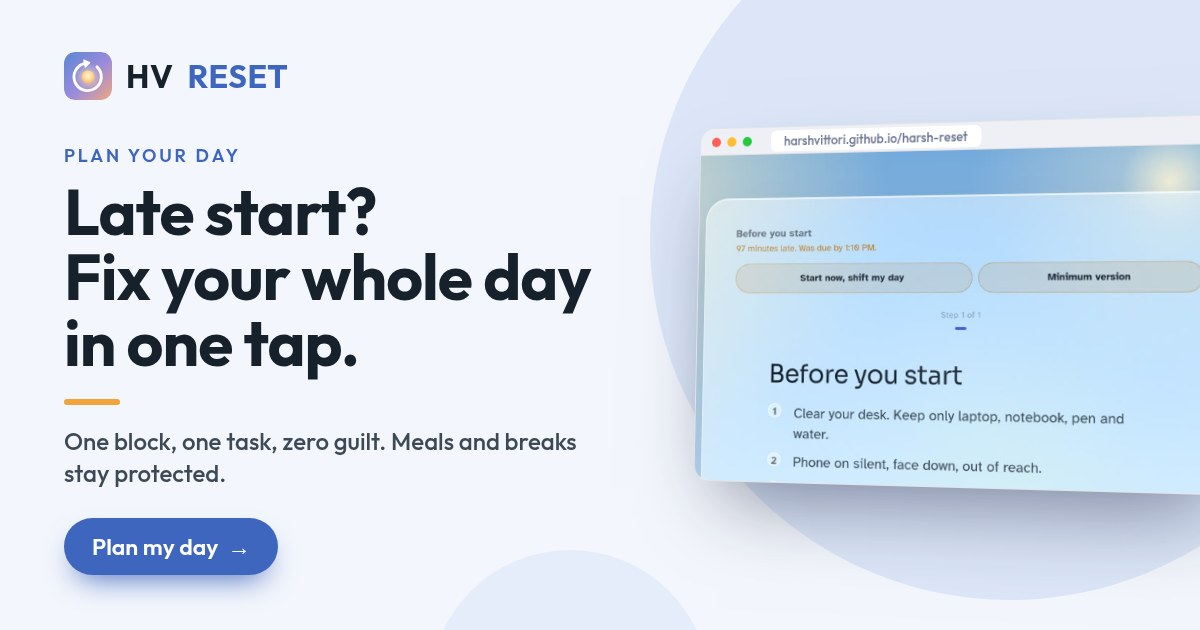
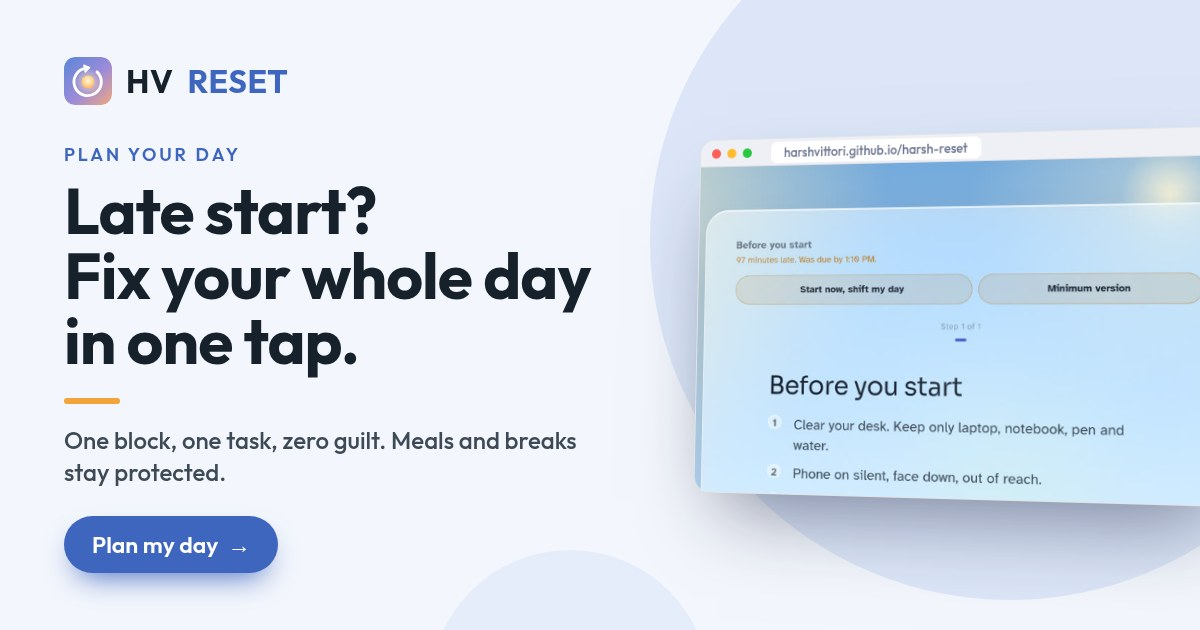
Balance the spacing on every link preview card
Text and app screens are now centred vertically, so the gap above the
logo equals the gap below the button on all five cards.

Claude-Session: https://claude.ai/code/session_01Vu6r8mcg3NGaLLefhwPnrg

diff --git a/src/og-cards.html b/src/og-cards.html
@@ -3,10 +3,10 @@
 .card{position:relative;width:1200px;height:630px;overflow:hidden;font-family:Outfit,sans-serif;color:#16212B;background:var(--tint);margin-bottom:20px}
 .c1{position:absolute;width:720px;height:720px;border-radius:50%;background:var(--circle);right:-170px;top:-120px}
 .c2{position:absolute;width:280px;height:280px;border-radius:50%;background:var(--circle);opacity:.6;left:430px;bottom:-200px}
-.left{position:absolute;left:64px;top:52px;width:560px;z-index:5}
+.left{position:absolute;left:64px;top:0;bottom:0;width:560px;z-index:5;display:flex;flex-direction:column;justify-content:center;align-items:flex-start}
 .brand{display:flex;align-items:center;gap:14px;font-weight:700;font-size:32px;letter-spacing:.02em}
 .brand svg{box-shadow:none!important}.brand b{color:var(--accent);font-weight:700}
-.eye{margin-top:44px;font-weight:600;font-size:18px;letter-spacing:.16em;text-transform:uppercase;color:var(--accent)}
+.eye{margin-top:38px;font-weight:600;font-size:18px;letter-spacing:.16em;text-transform:uppercase;color:var(--accent)}
 h1{margin-top:12px;font-weight:700;font-size:64px;line-height:1.02;letter-spacing:-.015em}
 .rule{width:56px;height:6px;border-radius:4px;background:#F2A33A;margin:24px 0 20px}
 .sub{font-weight:500;font-size:24px;line-height:1.35;color:#3D4A55;max-width:540px}
@@ -16,7 +16,7 @@ h1{margin-top:12px;font-weight:700;font-size:64px;line-height:1.02;letter-spacin
 .bar i{width:10px;height:10px;border-radius:50%;background:#FF5F57}.bar i:nth-child(2){background:#FEBC2E}.bar i:nth-child(3){background:#28C840}
 .bar span{margin-left:14px;font-size:13px;color:#6B7390;background:#fff;padding:3px 14px;border-radius:6px;white-space:nowrap;overflow:hidden}
 .scr{background-repeat:no-repeat}
-.fan{position:absolute;left:600px;top:40px;width:640px;height:560px}
-.riya{position:absolute;right:48px;top:96px;width:520px;transform:rotate(2deg);border-radius:26px;overflow:hidden;box-shadow:0 40px 80px -30px rgba(20,30,60,.55)}
+.fan{position:absolute;left:600px;top:50%;transform:translateY(-50%);width:640px;height:560px}
+.riya{position:absolute;right:48px;top:50%;width:520px;transform:translateY(-50%) rotate(2deg);border-radius:26px;overflow:hidden;box-shadow:0 40px 80px -30px rgba(20,30,60,.55)}
 .riya svg{display:block;width:100%;height:auto}
-</style></head><body><div class="card" data-out="og.jpg" style="--accent:#2E43A6;--dark:#233489;--tint:#F4F5FB;--circle:#E2E7F8"><div class="c1"></div><div class="c2"></div><div class="left"><div class="brand"><svg style="width:48px;height:48px;border-radius:11px;transform:rotate(0deg);flex:none;" xmlns="http://www.w3.org/2000/svg" viewBox="0 0 48 48"><defs><linearGradient id="hvw-og1" x1="0" y1="0" x2="1" y2="1"><stop offset="0" stop-color="#1C2A6B"/><stop offset=".6" stop-color="#4A46C9"/><stop offset="1" stop-color="#7C5CE0"/></linearGradient><radialGradient id="hvwc-og1" cx=".4" cy=".35" r=".7"><stop offset="0" stop-color="#FFFFFF"/><stop offset="1" stop-color="#C9D3FF"/></radialGradient></defs><rect width="48" height="48" rx="12" fill="url(#hvw-og1)"/><ellipse cx="24" cy="24" rx="16.5" ry="7.5" fill="none" stroke="#fff" stroke-opacity=".55" stroke-width="1.8" transform="rotate(-24 24 24)"/><circle cx="24" cy="24" r="6.2" fill="url(#hvwc-og1)"/><circle cx="37.6" cy="17.9" r="3.3" fill="#F2C063"/><circle cx="10.4" cy="30.1" r="3.3" fill="#34C77B"/><circle cx="17.4" cy="14.6" r="2.6" fill="#F2A77E"/></svg>HV <b>WORLD</b></div><p class="eye">3 free apps · by Harsh Vittori</p><h1>Stop guessing.<br>Start growing.</h1><div class="rule"></div><p class="sub">Know your strengths. Run a calm day.<br>Never miss a follow-up.</p><div class="cta">▶&nbsp; Watch the 45s film</div></div><div class="fan"><div class="win" style="width:330px;left:0;top:150px;transform:rotate(-8deg)"><div class="bar"><i></i><i></i><i></i><span>hv-tests</span></div><div class="scr" style="height:216px;background-image:url(og-assets/t-result.jpg);background-size:678.9px auto;background-position:-179.1px -18.9px"></div></div><div class="win" style="width:360px;left:170px;top:40px;transform:rotate(3deg);z-index:2"><div class="bar"><i></i><i></i><i></i><span>harsh-reset</span></div><div class="scr" style="height:230px;background-image:url(og-assets/r-intro-0.jpg);background-size:518.4px auto;background-position:-79.2px -21.6px"></div></div><div class="win" style="width:380px;left:250px;top:250px;transform:rotate(-2deg);z-index:3"><div class="bar"><i></i><i></i><i></i><span>hv-vault-web</span></div><div class="scr" style="height:237px;background-image:url(og-assets/v-dash-a.jpg);background-size:380.0px auto;background-position:-0.0px -0.0px"></div></div></div></div><div class="card" data-out="story/og.jpg" style="--accent:#2E43A6;--dark:#233489;--tint:#F4F5FB;--circle:#E2E7F8"><div class="c1"></div><div class="c2"></div><div class="left"><div class="brand"><svg style="width:48px;height:48px;border-radius:11px;transform:rotate(0deg);flex:none;" xmlns="http://www.w3.org/2000/svg" viewBox="0 0 48 48"><rect width="48" height="48" rx="12" fill="#2E43A6"/><rect x="7.5" y="16.5" width="21" height="15" rx="7.5" fill="none" stroke="#FFFFFF" stroke-width="3.4"/><rect x="19.5" y="16.5" width="21" height="15" rx="7.5" fill="none" stroke="#F4B942" stroke-width="3.4"/><path d="M21.2 16.5h3.3a7.5 7.5 0 0 1 4 1.2" fill="none" stroke="#FFFFFF" stroke-width="3.4" stroke-linecap="round"/></svg>HV <b>WORLD</b></div><p class="eye">A 1-minute illustrated story</p><h1>Hard work. Zero progress. Sound familiar?</h1><div class="rule"></div><p class="sub">Meet Riya. A 1-minute story about the 3 things quietly holding her back.</p><div class="cta">Read her story &nbsp;→</div></div><div class="riya"><svg class="art" viewBox="0 0 600 460" role="img" aria-label="Riya at her desk late at night, worried about three things: who she is, where her day goes, and follow-ups"><rect width="600" height="460" rx="28" fill="#F2F3F8"/><rect x="64" y="56" width="140" height="104" rx="14" fill="#1F2A55"/><circle cx="176" cy="82" r="14" fill="#F6E7B8"/><circle cx="182" cy="78" r="12" fill="#1F2A55"/><circle class="twinkle" style="animation-delay:0.0s" cx="92" cy="84" r="2.2" fill="#FFFFFF"/><circle class="twinkle" style="animation-delay:0.7s" cx="150" cy="72" r="2.2" fill="#FFFFFF"/><circle class="twinkle" style="animation-delay:1.3s" cx="120" cy="118" r="2.2" fill="#FFFFFF"/><circle class="twinkle" style="animation-delay:2.0s" cx="176" cy="104" r="2.2" fill="#FFFFFF"/><rect x="0" y="416" width="600" height="44" fill="#EEF0F4"/><rect x="0" y="414" width="600" height="3" fill="#E1E4EA"/><g class="" transform="translate(270 330) scale(1)"><path d="M-40,-118 C-48,-166 48,-166 40,-118 L44,-64 C30,-52 -30,-52 -44,-64Z" fill="#2A2238"/><rect x="-9" y="-64" width="18" height="22" rx="7" fill="#F0C29E"/><path d="M-60,26 C-60,-26 -42,-46 0,-46 C42,-46 60,-26 60,26 Z" fill="#5B6FE0"/><path d="M-14,-46 L0,-30 L14,-46" fill="none" stroke="#FFFFFF" stroke-opacity=".55" stroke-width="3" stroke-linecap="round"/><circle cx="-34" cy="-92" r="6" fill="#F0C29E"/><circle cx="34" cy="-92" r="6" fill="#F0C29E"/><circle cx="0" cy="-94" r="35" fill="#F0C29E"/><path d="M-36,-98 C-34,-138 34,-142 37,-100 C26,-118 -8,-122 -36,-98Z" fill="#2A2238"/><g class=""><path d="M-18,-92 L-7,-92 M7,-92 L18,-92" stroke="#1D1D1F" stroke-width="3" stroke-linecap="round"/><path d="M-19,-102 L-7,-104 M19,-102 L7,-104" stroke="#1D1D1F" stroke-width="3" stroke-linecap="round"/><path d="M-7,-75 L7,-75" stroke="#1D1D1F" stroke-width="3" stroke-linecap="round"/></g><g class=""><path d="M-50,-26 C-62,-6 -52,14 -30,20" fill="none" stroke="#5B6FE0" stroke-width="17" stroke-linecap="round"/><circle cx="-26" cy="20" r="8.5" fill="#F0C29E"/><path d="M50,-26 C62,-6 52,14 30,20" fill="none" stroke="#5B6FE0" stroke-width="17" stroke-linecap="round"/><circle cx="26" cy="20" r="8.5" fill="#F0C29E"/></g></g><rect x="120" y="322" width="380" height="16" rx="6" fill="#D8C2A2"/><rect x="138" y="336" width="12" height="86" rx="4" fill="#C5AD8B"/><rect x="470" y="336" width="12" height="86" rx="4" fill="#C5AD8B"/><rect x="150" y="318" width="70" height="8" rx="3" fill="#FFFFFF" transform="rotate(-3 185 318)"/><rect x="152" y="309" width="70" height="8" rx="3" fill="#F2F2F5" transform="rotate(2 185 309)"/><rect x="154" y="300" width="70" height="8" rx="3" fill="#FFFFFF" transform="rotate(-1 185 300)"/><rect x="156" y="291" width="70" height="8" rx="3" fill="#ECEEF3" transform="rotate(4 185 291)"/><rect x="158" y="282" width="70" height="8" rx="3" fill="#FFFFFF" transform="rotate(0 185 282)"/><g><path d="M338,322 h118 l-10,-6 h-98Z" fill="#9AA0AE"/><rect x="350" y="248" width="94" height="66" rx="7" fill="#2B3350"/><rect class="glowlap" x="356" y="254" width="82" height="54" rx="3" fill="#8FA6FF" opacity=".55"/></g><g><rect x="468" y="298" width="22" height="24" rx="5" fill="#FFFFFF" stroke="#D2D2D7" stroke-width="2"/><path class="steam" d="M479,292 q-4,-6 0,-12 q4,-6 0,-12" fill="none" stroke="#C7C7CC" stroke-width="2.5" stroke-linecap="round"/></g><g class=""><circle cx="318" cy="184" r="6" fill="#FFFFFF" stroke="#D2D2D7" stroke-width="1.5"/><circle cx="351" cy="161" r="10" fill="#FFFFFF" stroke="#D2D2D7" stroke-width="1.5"/><rect x="376" y="70" width="176" height="68" rx="34" fill="#FFFFFF" stroke="#D2D2D7" stroke-width="1.5"/><g class="pop" style="animation-delay:0s"><circle cx="404" cy="104" r="22" fill="#E3F2EA"/><text x="404" y="113" text-anchor="middle" font-size="24" font-weight="700" fill="#127A4F">?</text></g><g class="pop" style="animation-delay:.6s"><circle cx="464" cy="104" r="22" fill="#E6EDF9"/><circle cx="464" cy="104" r="11" fill="none" stroke="#4A72C8" stroke-width="3"/><path d="M464,97 v7 l5,4" stroke="#4A72C8" stroke-width="3" fill="none" stroke-linecap="round"/></g><g class="pop" style="animation-delay:1.2s"><circle cx="524" cy="104" r="22" fill="#F6EEDC"/><path d="M514,110 c0,-14 4,-19 10,-19 s10,5 10,19Z" fill="none" stroke="#A87A22" stroke-width="3" stroke-linejoin="round"/><circle cx="524" cy="114" r="2.5" fill="#A87A22"/></g></g></svg></div></div><div class="card" data-out="test/og.jpg" style="--accent:#127A4F;--dark:#0D5E3C;--tint:#F4F8F5;--circle:#DDEFE4"><div class="c1"></div><div class="c2"></div><div class="left"><div class="brand"><svg style="width:48px;height:48px;border-radius:11px;transform:rotate(0deg);flex:none;" xmlns="http://www.w3.org/2000/svg" viewBox="0 0 48 48"><rect width="48" height="48" rx="12" fill="#127A4F"/><circle cx="16.5" cy="16.5" r="5.5" stroke="#FFFFFF" stroke-width="3" fill="none"/><circle cx="31.5" cy="16.5" r="5.5" stroke="#FFFFFF" stroke-width="3" fill="none"/><circle cx="16.5" cy="31.5" r="5.5" stroke="#FFFFFF" stroke-width="3" fill="none"/><circle cx="31.5" cy="31.5" r="7.5" fill="#FFC54D"/><path d="M28 31.6l2.5 2.5 4.8-5" stroke="#17231C" stroke-width="2.6" fill="none" stroke-linecap="round" stroke-linejoin="round"/></svg>HV <b>TEST</b></div><p class="eye">10 minutes · Free · No login</p><h1>You think you know yourself. Prove it.</h1><div class="rule"></div><p class="sub">Real-life situations. An honest score out of 100, and a 30-day plan to grow.</p><div class="cta">Take the test &nbsp;→</div></div><div class="win" style="width:560px;right:-40px;top:120px;transform:perspective(1400px) rotateY(-12deg) rotateX(3deg)"><div class="bar"><i></i><i></i><i></i><span>harshvittori.github.io/hv-tests</span></div><div class="scr" style="height:368px;background-image:url(og-assets/t-result.jpg);background-size:1152.0px auto;background-position:-304.0px -32.0px"></div></div></div><div class="card" data-out="reset/og.jpg" style="--accent:#3F66BE;--dark:#2C4E99;--tint:#F3F6FC;--circle:#DCE6F8"><div class="c1"></div><div class="c2"></div><div class="left"><div class="brand"><svg style="width:48px;height:48px;border-radius:11px;transform:rotate(0deg);flex:none;" xmlns="http://www.w3.org/2000/svg" viewBox="0 0 1024 1024"><defs><linearGradient id="hvrbg-og4" x1="0" y1="0" x2="1" y2="1"><stop offset="0" stop-color="#5B86D6"/><stop offset=".55" stop-color="#9C8BDA"/><stop offset="1" stop-color="#F2A77E"/></linearGradient><radialGradient id="hvrsun-og4" cx=".5" cy=".42" r=".6"><stop offset="0" stop-color="#FFF6DA"/><stop offset=".6" stop-color="#FFD58F"/><stop offset="1" stop-color="#FFB066"/></radialGradient><radialGradient id="hvrglow-og4" cx=".5" cy=".5" r=".5"><stop offset="0" stop-color="#FFE9B8" stop-opacity=".75"/><stop offset="1" stop-color="#FFE9B8" stop-opacity="0"/></radialGradient></defs><rect width="1024" height="1024" rx="232" fill="url(#hvrbg-og4)"/><circle cx="512" cy="530" r="300" fill="url(#hvrglow-og4)"/><circle cx="512" cy="530" r="138" fill="url(#hvrsun-og4)"/><path d="M704 318A292 292 0 1 1 452 244" fill="none" stroke="#fff" stroke-width="62" stroke-linecap="round"/><path d="M548 225L454 318L424 176Z" fill="#fff" stroke="#fff" stroke-width="30" stroke-linejoin="round"/></svg>HV <b>RESET</b></div><p class="eye">Plan your day</p><h1>Late start?<br>Fix your whole day<br>in one tap.</h1><div class="rule"></div><p class="sub">One block, one task, zero guilt. Meals and breaks stay protected.</p><div class="cta">Plan my day &nbsp;→</div></div><div class="win" style="width:560px;right:-40px;top:120px;transform:perspective(1400px) rotateY(-12deg) rotateX(3deg)"><div class="bar"><i></i><i></i><i></i><span>harshvittori.github.io/harsh-reset</span></div><div class="scr" style="height:337px;background-image:url(og-assets/r-late.jpg);background-size:1033.8px auto;background-position:-236.9px -28.7px"></div></div></div><div class="card" data-out="vault/og.jpg" style="--accent:#A0721C;--dark:#7C5712;--tint:#FAF7F0;--circle:#F1E6CF"><div class="c1"></div><div class="c2"></div><div class="left"><div class="brand"><svg style="width:48px;height:48px;border-radius:11px;transform:rotate(0deg);flex:none;" viewBox="0 0 1024 1024" aria-hidden="true"><defs><linearGradient id="hvaimk-og5" x1="0" y1="0" x2="1" y2="1"><stop offset="0" stop-color="#1B3157"/><stop offset=".5" stop-color="#152647"/><stop offset="1" stop-color="#0C1830"/></linearGradient></defs><rect width="1024" height="1024" rx="230" fill="url(#hvaimk-og5)"/><path d="M 608.00 360.68 A 179.2 179.2 0 1 1 416.00 360.68" fill="none" stroke="#DFC18A" stroke-width="96" stroke-linecap="round"/><path d="M 608.00 206.74 A 320 320 0 1 1 416.00 206.74" fill="none" stroke="#C9A45E" stroke-width="83.2" stroke-linecap="round"/><circle cx="512" cy="512" r="96" fill="#EAD9B0"/></svg>HV <b>VAULT</b></div><p class="eye">For your job hunt</p><h1>Stop losing job leads in WhatsApp chats.</h1><div class="rule"></div><p class="sub">Every job, recruiter and interview on one board, with follow-ups that set themselves.</p><div class="cta">Organise my job hunt &nbsp;→</div></div><div class="win" style="width:560px;right:-40px;top:120px;transform:perspective(1400px) rotateY(-12deg) rotateX(3deg)"><div class="bar"><i></i><i></i><i></i><span>harshvittori.github.io/hv-vault-web</span></div><div class="scr" style="height:271px;background-image:url(og-assets/v-pipe-b.jpg);background-size:932.3px auto;background-position:-372.3px -145.7px"></div></div></div></body></html>
+</style></head><body><div class="card" data-out="og.jpg" style="--accent:#2E43A6;--dark:#233489;--tint:#F4F5FB;--circle:#E2E7F8"><div class="c1"></div><div class="c2"></div><div class="left"><div class="brand"><svg style="width:48px;height:48px;border-radius:11px;transform:rotate(0deg);flex:none;" xmlns="http://www.w3.org/2000/svg" viewBox="0 0 48 48"><defs><linearGradient id="hvw-og1" x1="0" y1="0" x2="1" y2="1"><stop offset="0" stop-color="#1C2A6B"/><stop offset=".6" stop-color="#4A46C9"/><stop offset="1" stop-color="#7C5CE0"/></linearGradient><radialGradient id="hvwc-og1" cx=".4" cy=".35" r=".7"><stop offset="0" stop-color="#FFFFFF"/><stop offset="1" stop-color="#C9D3FF"/></radialGradient></defs><rect width="48" height="48" rx="12" fill="url(#hvw-og1)"/><ellipse cx="24" cy="24" rx="16.5" ry="7.5" fill="none" stroke="#fff" stroke-opacity=".55" stroke-width="1.8" transform="rotate(-24 24 24)"/><circle cx="24" cy="24" r="6.2" fill="url(#hvwc-og1)"/><circle cx="37.6" cy="17.9" r="3.3" fill="#F2C063"/><circle cx="10.4" cy="30.1" r="3.3" fill="#34C77B"/><circle cx="17.4" cy="14.6" r="2.6" fill="#F2A77E"/></svg>HV <b>WORLD</b></div><p class="eye">3 free apps · by Harsh Vittori</p><h1>Stop guessing.<br>Start growing.</h1><div class="rule"></div><p class="sub">Know your strengths. Run a calm day.<br>Never miss a follow-up.</p><div class="cta">▶&nbsp; Watch the 45s film</div></div><div class="fan"><div class="win" style="width:330px;left:0;top:150px;transform:rotate(-8deg)"><div class="bar"><i></i><i></i><i></i><span>hv-tests</span></div><div class="scr" style="height:216px;background-image:url(og-assets/t-result.jpg);background-size:678.9px auto;background-position:-179.1px -18.9px"></div></div><div class="win" style="width:360px;left:170px;top:40px;transform:rotate(3deg);z-index:2"><div class="bar"><i></i><i></i><i></i><span>harsh-reset</span></div><div class="scr" style="height:230px;background-image:url(og-assets/r-intro-0.jpg);background-size:518.4px auto;background-position:-79.2px -21.6px"></div></div><div class="win" style="width:380px;left:250px;top:250px;transform:rotate(-2deg);z-index:3"><div class="bar"><i></i><i></i><i></i><span>hv-vault-web</span></div><div class="scr" style="height:237px;background-image:url(og-assets/v-dash-a.jpg);background-size:380.0px auto;background-position:-0.0px -0.0px"></div></div></div></div><div class="card" data-out="story/og.jpg" style="--accent:#2E43A6;--dark:#233489;--tint:#F4F5FB;--circle:#E2E7F8"><div class="c1"></div><div class="c2"></div><div class="left"><div class="brand"><svg style="width:48px;height:48px;border-radius:11px;transform:rotate(0deg);flex:none;" xmlns="http://www.w3.org/2000/svg" viewBox="0 0 48 48"><rect width="48" height="48" rx="12" fill="#2E43A6"/><rect x="7.5" y="16.5" width="21" height="15" rx="7.5" fill="none" stroke="#FFFFFF" stroke-width="3.4"/><rect x="19.5" y="16.5" width="21" height="15" rx="7.5" fill="none" stroke="#F4B942" stroke-width="3.4"/><path d="M21.2 16.5h3.3a7.5 7.5 0 0 1 4 1.2" fill="none" stroke="#FFFFFF" stroke-width="3.4" stroke-linecap="round"/></svg>HV <b>WORLD</b></div><p class="eye">A 1-minute illustrated story</p><h1>Hard work. Zero progress. Sound familiar?</h1><div class="rule"></div><p class="sub">Meet Riya. A 1-minute story about the 3 things quietly holding her back.</p><div class="cta">Read her story &nbsp;→</div></div><div class="riya"><svg class="art" viewBox="0 0 600 460" role="img" aria-label="Riya at her desk late at night, worried about three things: who she is, where her day goes, and follow-ups"><rect width="600" height="460" rx="28" fill="#F2F3F8"/><rect x="64" y="56" width="140" height="104" rx="14" fill="#1F2A55"/><circle cx="176" cy="82" r="14" fill="#F6E7B8"/><circle cx="182" cy="78" r="12" fill="#1F2A55"/><circle class="twinkle" style="animation-delay:0.0s" cx="92" cy="84" r="2.2" fill="#FFFFFF"/><circle class="twinkle" style="animation-delay:0.7s" cx="150" cy="72" r="2.2" fill="#FFFFFF"/><circle class="twinkle" style="animation-delay:1.3s" cx="120" cy="118" r="2.2" fill="#FFFFFF"/><circle class="twinkle" style="animation-delay:2.0s" cx="176" cy="104" r="2.2" fill="#FFFFFF"/><rect x="0" y="416" width="600" height="44" fill="#EEF0F4"/><rect x="0" y="414" width="600" height="3" fill="#E1E4EA"/><g class="" transform="translate(270 330) scale(1)"><path d="M-40,-118 C-48,-166 48,-166 40,-118 L44,-64 C30,-52 -30,-52 -44,-64Z" fill="#2A2238"/><rect x="-9" y="-64" width="18" height="22" rx="7" fill="#F0C29E"/><path d="M-60,26 C-60,-26 -42,-46 0,-46 C42,-46 60,-26 60,26 Z" fill="#5B6FE0"/><path d="M-14,-46 L0,-30 L14,-46" fill="none" stroke="#FFFFFF" stroke-opacity=".55" stroke-width="3" stroke-linecap="round"/><circle cx="-34" cy="-92" r="6" fill="#F0C29E"/><circle cx="34" cy="-92" r="6" fill="#F0C29E"/><circle cx="0" cy="-94" r="35" fill="#F0C29E"/><path d="M-36,-98 C-34,-138 34,-142 37,-100 C26,-118 -8,-122 -36,-98Z" fill="#2A2238"/><g class=""><path d="M-18,-92 L-7,-92 M7,-92 L18,-92" stroke="#1D1D1F" stroke-width="3" stroke-linecap="round"/><path d="M-19,-102 L-7,-104 M19,-102 L7,-104" stroke="#1D1D1F" stroke-width="3" stroke-linecap="round"/><path d="M-7,-75 L7,-75" stroke="#1D1D1F" stroke-width="3" stroke-linecap="round"/></g><g class=""><path d="M-50,-26 C-62,-6 -52,14 -30,20" fill="none" stroke="#5B6FE0" stroke-width="17" stroke-linecap="round"/><circle cx="-26" cy="20" r="8.5" fill="#F0C29E"/><path d="M50,-26 C62,-6 52,14 30,20" fill="none" stroke="#5B6FE0" stroke-width="17" stroke-linecap="round"/><circle cx="26" cy="20" r="8.5" fill="#F0C29E"/></g></g><rect x="120" y="322" width="380" height="16" rx="6" fill="#D8C2A2"/><rect x="138" y="336" width="12" height="86" rx="4" fill="#C5AD8B"/><rect x="470" y="336" width="12" height="86" rx="4" fill="#C5AD8B"/><rect x="150" y="318" width="70" height="8" rx="3" fill="#FFFFFF" transform="rotate(-3 185 318)"/><rect x="152" y="309" width="70" height="8" rx="3" fill="#F2F2F5" transform="rotate(2 185 309)"/><rect x="154" y="300" width="70" height="8" rx="3" fill="#FFFFFF" transform="rotate(-1 185 300)"/><rect x="156" y="291" width="70" height="8" rx="3" fill="#ECEEF3" transform="rotate(4 185 291)"/><rect x="158" y="282" width="70" height="8" rx="3" fill="#FFFFFF" transform="rotate(0 185 282)"/><g><path d="M338,322 h118 l-10,-6 h-98Z" fill="#9AA0AE"/><rect x="350" y="248" width="94" height="66" rx="7" fill="#2B3350"/><rect class="glowlap" x="356" y="254" width="82" height="54" rx="3" fill="#8FA6FF" opacity=".55"/></g><g><rect x="468" y="298" width="22" height="24" rx="5" fill="#FFFFFF" stroke="#D2D2D7" stroke-width="2"/><path class="steam" d="M479,292 q-4,-6 0,-12 q4,-6 0,-12" fill="none" stroke="#C7C7CC" stroke-width="2.5" stroke-linecap="round"/></g><g class=""><circle cx="318" cy="184" r="6" fill="#FFFFFF" stroke="#D2D2D7" stroke-width="1.5"/><circle cx="351" cy="161" r="10" fill="#FFFFFF" stroke="#D2D2D7" stroke-width="1.5"/><rect x="376" y="70" width="176" height="68" rx="34" fill="#FFFFFF" stroke="#D2D2D7" stroke-width="1.5"/><g class="pop" style="animation-delay:0s"><circle cx="404" cy="104" r="22" fill="#E3F2EA"/><text x="404" y="113" text-anchor="middle" font-size="24" font-weight="700" fill="#127A4F">?</text></g><g class="pop" style="animation-delay:.6s"><circle cx="464" cy="104" r="22" fill="#E6EDF9"/><circle cx="464" cy="104" r="11" fill="none" stroke="#4A72C8" stroke-width="3"/><path d="M464,97 v7 l5,4" stroke="#4A72C8" stroke-width="3" fill="none" stroke-linecap="round"/></g><g class="pop" style="animation-delay:1.2s"><circle cx="524" cy="104" r="22" fill="#F6EEDC"/><path d="M514,110 c0,-14 4,-19 10,-19 s10,5 10,19Z" fill="none" stroke="#A87A22" stroke-width="3" stroke-linejoin="round"/><circle cx="524" cy="114" r="2.5" fill="#A87A22"/></g></g></svg></div></div><div class="card" data-out="test/og.jpg" style="--accent:#127A4F;--dark:#0D5E3C;--tint:#F4F8F5;--circle:#DDEFE4"><div class="c1"></div><div class="c2"></div><div class="left"><div class="brand"><svg style="width:48px;height:48px;border-radius:11px;transform:rotate(0deg);flex:none;" xmlns="http://www.w3.org/2000/svg" viewBox="0 0 48 48"><rect width="48" height="48" rx="12" fill="#127A4F"/><circle cx="16.5" cy="16.5" r="5.5" stroke="#FFFFFF" stroke-width="3" fill="none"/><circle cx="31.5" cy="16.5" r="5.5" stroke="#FFFFFF" stroke-width="3" fill="none"/><circle cx="16.5" cy="31.5" r="5.5" stroke="#FFFFFF" stroke-width="3" fill="none"/><circle cx="31.5" cy="31.5" r="7.5" fill="#FFC54D"/><path d="M28 31.6l2.5 2.5 4.8-5" stroke="#17231C" stroke-width="2.6" fill="none" stroke-linecap="round" stroke-linejoin="round"/></svg>HV <b>TEST</b></div><p class="eye">10 minutes · Free · No login</p><h1>You think you know yourself. Prove it.</h1><div class="rule"></div><p class="sub">Real-life situations. An honest score out of 100, and a 30-day plan to grow.</p><div class="cta">Take the test &nbsp;→</div></div><div class="win" style="width:560px;right:-40px;top:50%;transform:translateY(-50%) perspective(1400px) rotateY(-12deg) rotateX(3deg)"><div class="bar"><i></i><i></i><i></i><span>harshvittori.github.io/hv-tests</span></div><div class="scr" style="height:368px;background-image:url(og-assets/t-result.jpg);background-size:1152.0px auto;background-position:-304.0px -32.0px"></div></div></div><div class="card" data-out="reset/og.jpg" style="--accent:#3F66BE;--dark:#2C4E99;--tint:#F3F6FC;--circle:#DCE6F8"><div class="c1"></div><div class="c2"></div><div class="left"><div class="brand"><svg style="width:48px;height:48px;border-radius:11px;transform:rotate(0deg);flex:none;" xmlns="http://www.w3.org/2000/svg" viewBox="0 0 1024 1024"><defs><linearGradient id="hvrbg-og4" x1="0" y1="0" x2="1" y2="1"><stop offset="0" stop-color="#5B86D6"/><stop offset=".55" stop-color="#9C8BDA"/><stop offset="1" stop-color="#F2A77E"/></linearGradient><radialGradient id="hvrsun-og4" cx=".5" cy=".42" r=".6"><stop offset="0" stop-color="#FFF6DA"/><stop offset=".6" stop-color="#FFD58F"/><stop offset="1" stop-color="#FFB066"/></radialGradient><radialGradient id="hvrglow-og4" cx=".5" cy=".5" r=".5"><stop offset="0" stop-color="#FFE9B8" stop-opacity=".75"/><stop offset="1" stop-color="#FFE9B8" stop-opacity="0"/></radialGradient></defs><rect width="1024" height="1024" rx="232" fill="url(#hvrbg-og4)"/><circle cx="512" cy="530" r="300" fill="url(#hvrglow-og4)"/><circle cx="512" cy="530" r="138" fill="url(#hvrsun-og4)"/><path d="M704 318A292 292 0 1 1 452 244" fill="none" stroke="#fff" stroke-width="62" stroke-linecap="round"/><path d="M548 225L454 318L424 176Z" fill="#fff" stroke="#fff" stroke-width="30" stroke-linejoin="round"/></svg>HV <b>RESET</b></div><p class="eye">Plan your day</p><h1>Late start?<br>Fix your whole day<br>in one tap.</h1><div class="rule"></div><p class="sub">One block, one task, zero guilt. Meals and breaks stay protected.</p><div class="cta">Plan my day &nbsp;→</div></div><div class="win" style="width:560px;right:-40px;top:50%;transform:translateY(-50%) perspective(1400px) rotateY(-12deg) rotateX(3deg)"><div class="bar"><i></i><i></i><i></i><span>harshvittori.github.io/harsh-reset</span></div><div class="scr" style="height:337px;background-image:url(og-assets/r-late.jpg);background-size:1033.8px auto;background-position:-236.9px -28.7px"></div></div></div><div class="card" data-out="vault/og.jpg" style="--accent:#A0721C;--dark:#7C5712;--tint:#FAF7F0;--circle:#F1E6CF"><div class="c1"></div><div class="c2"></div><div class="left"><div class="brand"><svg style="width:48px;height:48px;border-radius:11px;transform:rotate(0deg);flex:none;" viewBox="0 0 1024 1024" aria-hidden="true"><defs><linearGradient id="hvaimk-og5" x1="0" y1="0" x2="1" y2="1"><stop offset="0" stop-color="#1B3157"/><stop offset=".5" stop-color="#152647"/><stop offset="1" stop-color="#0C1830"/></linearGradient></defs><rect width="1024" height="1024" rx="230" fill="url(#hvaimk-og5)"/><path d="M 608.00 360.68 A 179.2 179.2 0 1 1 416.00 360.68" fill="none" stroke="#DFC18A" stroke-width="96" stroke-linecap="round"/><path d="M 608.00 206.74 A 320 320 0 1 1 416.00 206.74" fill="none" stroke="#C9A45E" stroke-width="83.2" stroke-linecap="round"/><circle cx="512" cy="512" r="96" fill="#EAD9B0"/></svg>HV <b>VAULT</b></div><p class="eye">For your job hunt</p><h1>Stop losing job leads in WhatsApp chats.</h1><div class="rule"></div><p class="sub">Every job, recruiter and interview on one board, with follow-ups that set themselves.</p><div class="cta">Organise my job hunt &nbsp;→</div></div><div class="win" style="width:560px;right:-40px;top:50%;transform:translateY(-50%) perspective(1400px) rotateY(-12deg) rotateX(3deg)"><div class="bar"><i></i><i></i><i></i><span>harshvittori.github.io/hv-vault-web</span></div><div class="scr" style="height:271px;background-image:url(og-assets/v-pipe-b.jpg);background-size:932.3px auto;background-position:-372.3px -145.7px"></div></div></div></body></html>

diff --git a/src/og.py b/src/og.py
@@ -42,13 +42,13 @@ CARDS = [  # out, brand logo, brand word, accent, dark, tint, circle, eyebrow, h
      "Hard work. Zero progress. Sound familiar?", "Meet Riya. A 1-minute story about the 3 things quietly holding her back.", "Read her story &nbsp;→", RIYA),
     ("test/og.jpg", "logo-test", "TEST", "#127A4F", "#0D5E3C", "#F4F8F5", "#DDEFE4", "10 minutes · Free · No login",
      "You think you know yourself. Prove it.", "Real-life situations. An honest score out of 100, and a 30-day plan to grow.", "Take the test &nbsp;→",
-     window("t-result", (380, 40, 700, 460), 560, "harshvittori.github.io/hv-tests", "right:-40px;top:120px;transform:perspective(1400px) rotateY(-12deg) rotateX(3deg)")),
+     window("t-result", (380, 40, 700, 460), 560, "harshvittori.github.io/hv-tests", "right:-40px;top:50%;transform:translateY(-50%) perspective(1400px) rotateY(-12deg) rotateX(3deg)")),
     ("reset/og.jpg", "logo-reset", "RESET", "#3F66BE", "#2C4E99", "#F3F6FC", "#DCE6F8", "Plan your day",
      "Late start?<br>Fix your whole day<br>in one tap.", "One block, one task, zero guilt. Meals and breaks stay protected.", "Plan my day &nbsp;→",
-     window("r-late", (330, 40, 780, 470), 560, "harshvittori.github.io/harsh-reset", "right:-40px;top:120px;transform:perspective(1400px) rotateY(-12deg) rotateX(3deg)")),
+     window("r-late", (330, 40, 780, 470), 560, "harshvittori.github.io/harsh-reset", "right:-40px;top:50%;transform:translateY(-50%) perspective(1400px) rotateY(-12deg) rotateX(3deg)")),
     ("vault/og.jpg", "logo-vault", "VAULT", "#A0721C", "#7C5712", "#FAF7F0", "#F1E6CF", "For your job hunt",
      "Stop losing job leads in WhatsApp chats.", "Every job, recruiter and interview on one board, with follow-ups that set themselves.", "Organise my job hunt &nbsp;→",
-     window("v-pipe-b", (575, 225, 865, 420), 560, "harshvittori.github.io/hv-vault-web", "right:-40px;top:120px;transform:perspective(1400px) rotateY(-12deg) rotateX(3deg)")),
+     window("v-pipe-b", (575, 225, 865, 420), 560, "harshvittori.github.io/hv-vault-web", "right:-40px;top:50%;transform:translateY(-50%) perspective(1400px) rotateY(-12deg) rotateX(3deg)")),
 ]
 
 CSS = font(500) + font(600) + font(700) + """
@@ -56,10 +56,10 @@ CSS = font(500) + font(600) + font(700) + """
 .card{position:relative;width:1200px;height:630px;overflow:hidden;font-family:Outfit,sans-serif;color:#16212B;background:var(--tint);margin-bottom:20px}
 .c1{position:absolute;width:720px;height:720px;border-radius:50%;background:var(--circle);right:-170px;top:-120px}
 .c2{position:absolute;width:280px;height:280px;border-radius:50%;background:var(--circle);opacity:.6;left:430px;bottom:-200px}
-.left{position:absolute;left:64px;top:52px;width:560px;z-index:5}
+.left{position:absolute;left:64px;top:0;bottom:0;width:560px;z-index:5;display:flex;flex-direction:column;justify-content:center;align-items:flex-start}
 .brand{display:flex;align-items:center;gap:14px;font-weight:700;font-size:32px;letter-spacing:.02em}
 .brand svg{box-shadow:none!important}.brand b{color:var(--accent);font-weight:700}
-.eye{margin-top:44px;font-weight:600;font-size:18px;letter-spacing:.16em;text-transform:uppercase;color:var(--accent)}
+.eye{margin-top:38px;font-weight:600;font-size:18px;letter-spacing:.16em;text-transform:uppercase;color:var(--accent)}
 h1{margin-top:12px;font-weight:700;font-size:64px;line-height:1.02;letter-spacing:-.015em}
 .rule{width:56px;height:6px;border-radius:4px;background:#F2A33A;margin:24px 0 20px}
 .sub{font-weight:500;font-size:24px;line-height:1.35;color:#3D4A55;max-width:540px}
@@ -69,8 +69,8 @@ h1{margin-top:12px;font-weight:700;font-size:64px;line-height:1.02;letter-spacin
 .bar i{width:10px;height:10px;border-radius:50%;background:#FF5F57}.bar i:nth-child(2){background:#FEBC2E}.bar i:nth-child(3){background:#28C840}
 .bar span{margin-left:14px;font-size:13px;color:#6B7390;background:#fff;padding:3px 14px;border-radius:6px;white-space:nowrap;overflow:hidden}
 .scr{background-repeat:no-repeat}
-.fan{position:absolute;left:600px;top:40px;width:640px;height:560px}
-.riya{position:absolute;right:48px;top:96px;width:520px;transform:rotate(2deg);border-radius:26px;overflow:hidden;box-shadow:0 40px 80px -30px rgba(20,30,60,.55)}
+.fan{position:absolute;left:600px;top:50%;transform:translateY(-50%);width:640px;height:560px}
+.riya{position:absolute;right:48px;top:50%;width:520px;transform:translateY(-50%) rotate(2deg);border-radius:26px;overflow:hidden;box-shadow:0 40px 80px -30px rgba(20,30,60,.55)}
 .riya svg{display:block;width:100%;height:auto}
 """
 html = "<!DOCTYPE html><html><head><meta charset='utf-8'><style>%s</style></head><body>" % CSS
